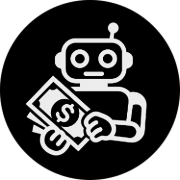
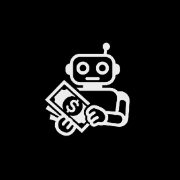
updates

diff --git a/app/layout.tsx b/app/layout.tsx
@@ -18,6 +18,7 @@ const RootLayout: FC<Layout> = ({ children }) => {
   return (
     <html lang="en" suppressHydrationWarning>
       <head>
+        <link rel="icon" type="image/svg+xml" href="/favicon.svg" />
         <link href="/apple-icon-180x180.png" rel="apple-touch-icon" sizes="180x180" />
         <link href="/android-icon-192x192.png" rel="icon" sizes="192x192" type="image/png" />
         <link href="/favicon-32x32.png" rel="icon" sizes="32x32" type="image/png" />
@@ -63,6 +64,10 @@ const RootLayout: FC<Layout> = ({ children }) => {
         />
         <meta content="/ogimage-stockmarketbot.jpg" name="twitter:image" />
         <meta content="Live view of an AI stock trading experiment" property="twitter:image:alt" />
+        
+        <meta name="apple-mobile-web-app-title" content="StockMarketBot" />
+        <link rel="manifest" href="/manifest.json" />
+
       </head>
       <body className="flex min-h-screen w-full flex-col">
         {/* <NextTopLoader color={"#808080"} showSpinner={false} zIndex={100} /> */}

diff --git a/public/sw.js b/public/sw.js
@@ -18,10 +18,9 @@ self.addEventListener("push", (event) => {
 
   const title = data.title || "New Notification"
   const options = {
-    body: data.body || "You have a new notification!",
-    icon: data.icon || "/icon.svg",
-    badge: data.badge || "/icon.svg",
-    vibrate: [200, 100, 200],
+    body: data.body,
+    icon: data.icon,
+    badge: data.badge,
     data: data.data || {},
   }
 
